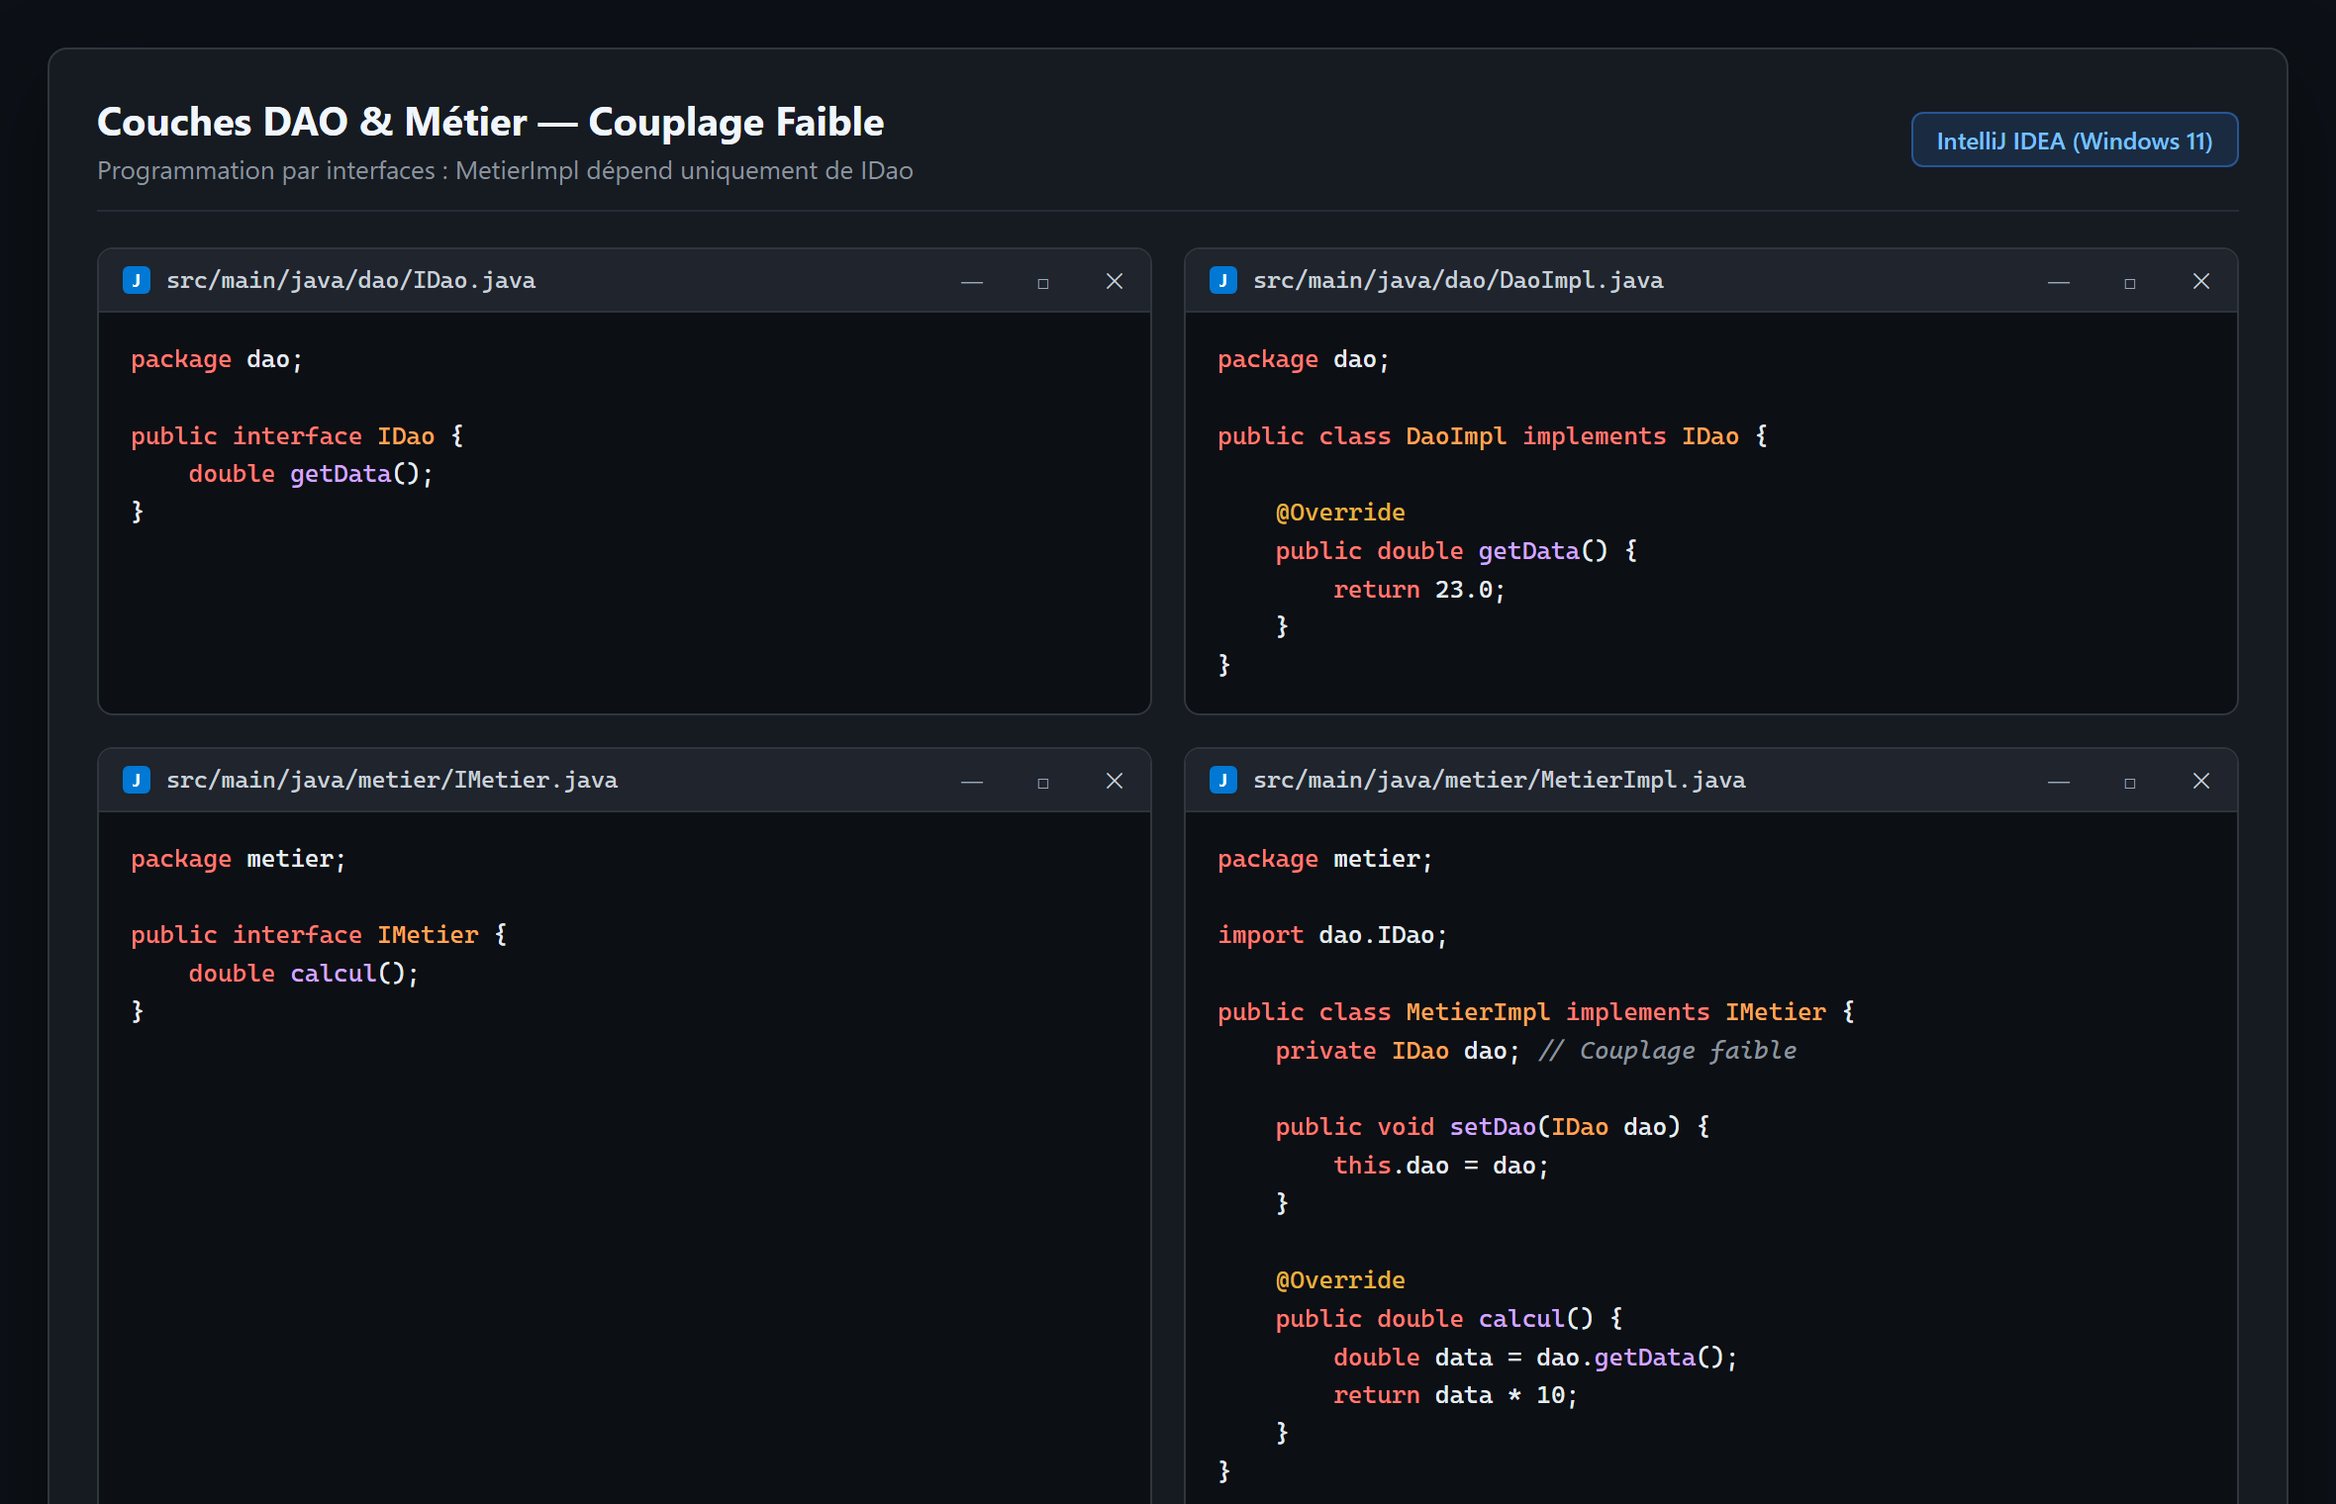
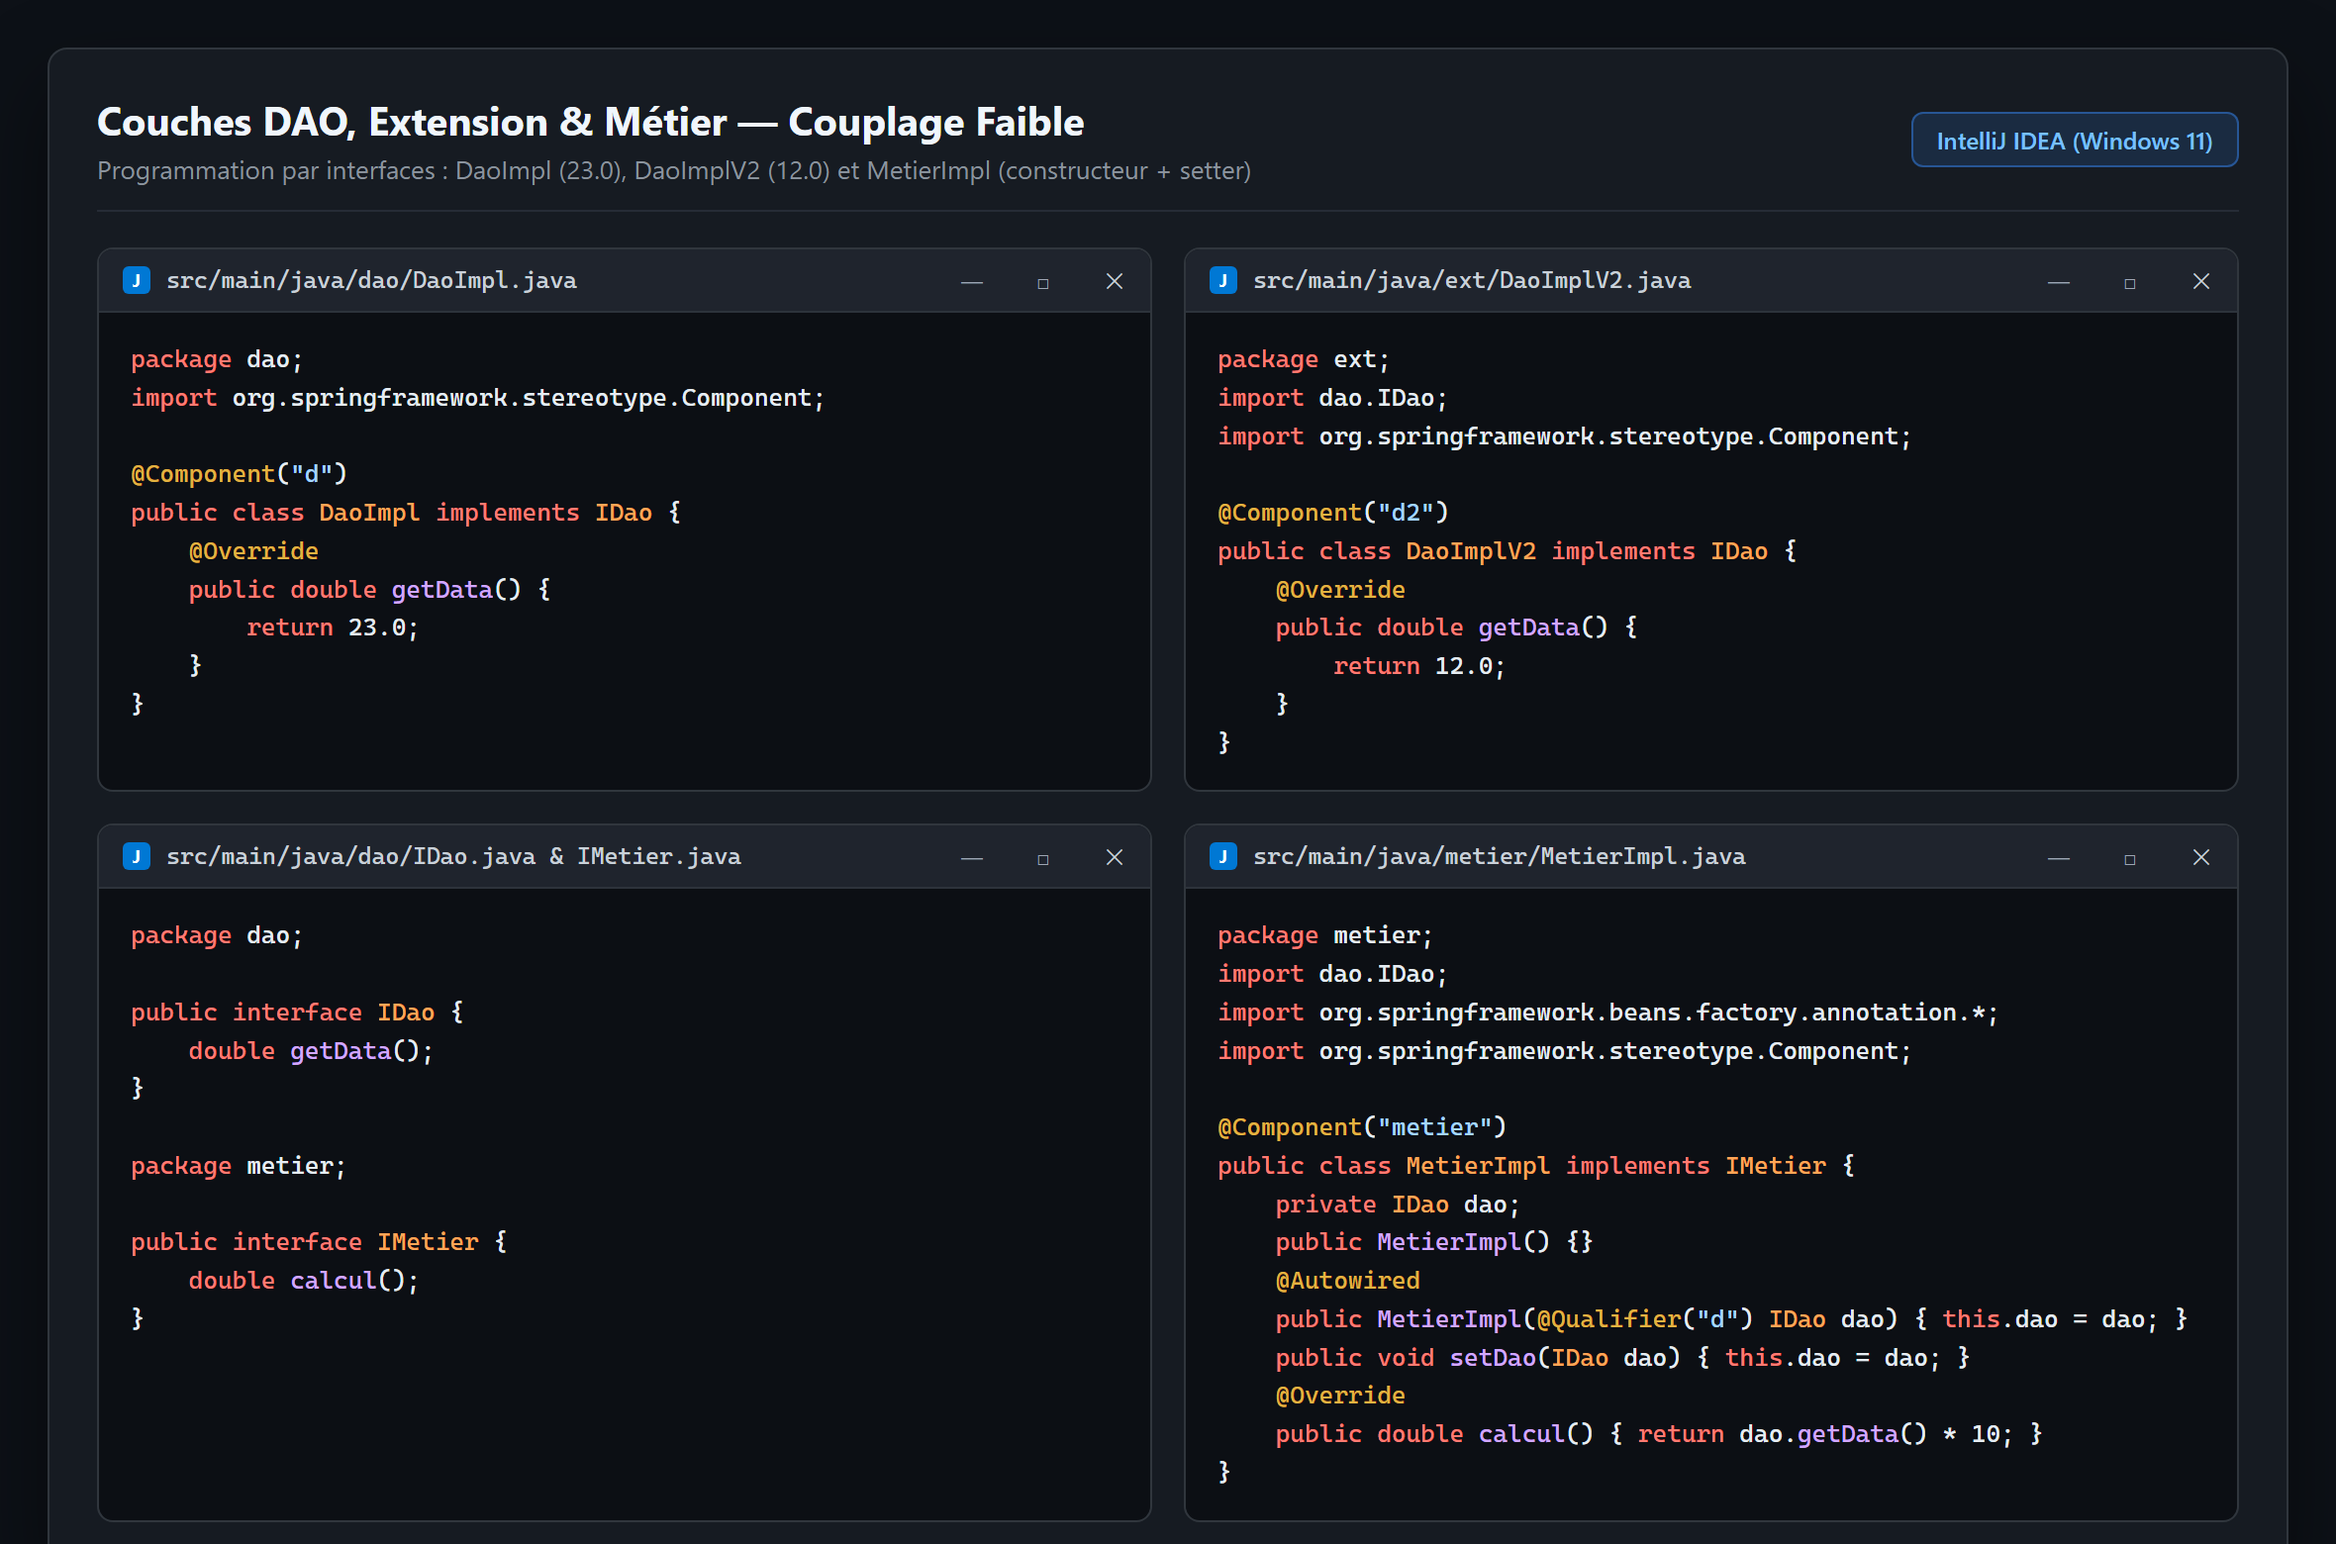
feat: ajout DaoImplV2, injection constructeur et PresSpringAnnotation inspirés de bdcc-ioc

diff --git a/src/main/java/metier/MetierImpl.java b/src/main/java/metier/MetierImpl.java
@@ -1,10 +1,24 @@
 package metier;
 
 import dao.IDao;
+import org.springframework.beans.factory.annotation.Autowired;
+import org.springframework.beans.factory.annotation.Qualifier;
+import org.springframework.stereotype.Component;
 
+@Component("metier")
 public class MetierImpl implements IMetier {
 
     private IDao dao;
+
+    /** Constructeur sans paramètres (requis pour Pres1, Pres2 et Spring XML). */
+    public MetierImpl() {
+    }
+
+    /** Injection par constructeur (utilisée par Spring Annotations). */
+    @Autowired
+    public MetierImpl(@Qualifier("d") IDao dao) {
+        this.dao = dao;
+    }
 
     public void setDao(IDao dao) {
         this.dao = dao;

diff --git a/src/main/java/presentation/PresSpringAnnotation.java b/src/main/java/presentation/PresSpringAnnotation.java
@@ -1,0 +1,21 @@
+package presentation;
+
+import metier.IMetier;
+import org.springframework.context.annotation.AnnotationConfigApplicationContext;
+
+/**
+ * Version 4 : Injection des dépendances avec Spring Annotations (@Component, @Autowired, @Qualifier).
+ */
+public class PresSpringAnnotation {
+
+    public static void main(String[] args) {
+        AnnotationConfigApplicationContext context =
+                new AnnotationConfigApplicationContext("dao", "metier");
+
+        IMetier metier = context.getBean(IMetier.class);
+
+        System.out.println("Résultat du calcul avec Spring Annotations : " + metier.calcul());
+
+        context.close();
+    }
+}

diff --git a/src/main/java/ext/DaoImplV2.java b/src/main/java/ext/DaoImplV2.java
@@ -1,0 +1,16 @@
+package ext;
+
+import dao.IDao;
+import org.springframework.stereotype.Component;
+
+/**
+ * Extension "capteur" de IDao ajoutée sans modifier la couche DAO ni la couche métier.
+ */
+@Component("d2")
+public class DaoImplV2 implements IDao {
+
+    @Override
+    public double getData() {
+        return 12.0;
+    }
+}

diff --git a/src/main/java/dao/DaoImpl.java b/src/main/java/dao/DaoImpl.java
@@ -1,5 +1,8 @@
 package dao;
 
+import org.springframework.stereotype.Component;
+
+@Component("d")
 public class DaoImpl implements IDao {
 
     @Override

diff --git a/README.md b/README.md
@@ -7,7 +7,7 @@
 [![Maven](https://img.shields.io/badge/Build-Maven-C71A36?logo=apachemaven&logoColor=white)](https://maven.apache.org/)
 [![OS](https://img.shields.io/badge/Environnement-Windows%2011-0078D6?logo=windows11&logoColor=white)]()
 
-**Sujet :** Application Java **fermée à la modification et ouverte à l'extension** — Couplage faible & Injection des dépendances (Statique, Dynamique par réflexion, Spring XML).
+**Sujet :** Application Java **fermée à la modification et ouverte à l'extension** — Couplage faible & Injection des dépendances (Statique, Dynamique par réflexion, Spring XML, Spring Annotations).
 
 </div>
 
@@ -19,10 +19,11 @@
 2. [Architecture du projet](#-2-architecture-du-projet)
 3. [Structure des fichiers](#-3-structure-des-fichiers)
 4. [Réalisation étape par étape](#-4-réalisation-étape-par-étape)
-   - [Couches DAO & Métier (`IDao`, `DaoImpl`, `IMetier`, `MetierImpl`)](#couches-dao--métier)
+   - [Couches DAO, Extension (`ext`) & Métier](#couches-dao-extension--métier)
    - [a) Injection par instanciation statique (`Pres1`)](#a-par-instanciation-statique-pres1)
    - [b) Injection par instanciation dynamique (`Pres2`)](#b-par-instanciation-dynamique-pres2)
-   - [c) Injection avec Spring IoC XML (`PresSpring`)](#c-avec-le-framework-spring-xml-presspring)
+   - [c) Injection avec Spring XML (`PresSpring`)](#c-avec-spring-xml-presspring)
+   - [d) Injection avec Spring Annotations (`PresSpringAnnotation`)](#d-avec-spring-annotations-presspringannotation)
 5. [Tableau récapitulatif](#-5-tableau-récapitulatif)
 6. [Prérequis & Exécution](#-6-prérequis--exécution)
 7. [Conclusion](#-7-conclusion)
@@ -31,12 +32,12 @@
 
 ## 🎯 1. Objectif
 
-Montrer comment concevoir une application Java **fermée à la modification** et **ouverte à l'extension**, facilitant la maintenance et l'évolution :
+Montrer comment créer une application Java **fermée à la modification** et **ouverte à l'extension**, facilitant la maintenance :
 
 1. **Le couplage faible** : dépendre des *interfaces* (`IDao`, `IMetier`) et non des implémentations concrètes.
-2. **L'injection des dépendances** : un objet reçoit ses dépendances de l'extérieur (via `setDao(...)`) au lieu de les instancier lui-même avec `new`.
+2. **L'injection des dépendances** : un objet reçoit ses dépendances de l'extérieur (par **constructeur** ou par **setter**) au lieu de les instancier lui-même avec `new`.
 
-Avec l'**Inversion de Contrôle (IoC)**, le développeur se concentre sur la logique **métier**, tandis que le framework (**Spring**) gère la création des objets et le câblage technique.
+Avec l'**Inversion de Contrôle (IoC)**, le développeur écrit le code **métier** ; **Spring** s'occupe de la création et du câblage des objets.
 
 ---
 
@@ -56,45 +57,48 @@ TP-IOC-Spring/
 │   ├── 02-couches-dao-metier.png
 │   ├── 03-pres1-statique.png
 │   ├── 04-pres2-dynamique.png
-│   └── 05-pres3-spring-xml.png
+│   ├── 05-pres3-spring-xml.png
+│   └── 06-pres4-spring-annotations.png
 └── src/main/
     ├── java/
     │   ├── dao/
     │   │   ├── IDao.java                    # Interface d'accès aux données (getData)
-    │   │   └── DaoImpl.java                 # Implémentation retournant 23.0
+    │   │   └── DaoImpl.java                 # Implémentation BDD (23.0) — @Component("d")
+    │   ├── ext/
+    │   │   └── DaoImplV2.java               # Extension capteur (12.0) — @Component("d2")
     │   ├── metier/
     │   │   ├── IMetier.java                 # Interface métier (calcul)
-    │   │   └── MetierImpl.java              # Calcul métier (data * 10) avec setDao(IDao)
+    │   │   └── MetierImpl.java              # Calcul (data * 10), constructeur @Autowired + setDao
     │   ├── presentation/
     │   │   ├── Pres1.java                   # Instanciation statique (new)
     │   │   ├── Pres2.java                   # Instanciation dynamique (réflexion + config.txt)
-    │   │   └── PresSpring.java              # Conteneur IoC Spring (config.xml)
+    │   │   ├── PresSpring.java              # Conteneur IoC Spring XML (config.xml)
+    │   │   └── PresSpringAnnotation.java    # Conteneur IoC Spring Annotations
     │   └── org/example/
     │       └── Main.java                    # Point d'entrée modèle
     └── resources/
-        ├── config.txt                       # Configuration des classes pour Pres2
-        └── config.xml                       # Configuration des beans Spring pour PresSpring
+        ├── config.txt                       # Noms des classes pour Pres2
+        └── config.xml                       # Déclaration des beans Spring pour PresSpring
 ```
 
 ---
 
 ## 🛠 4. Réalisation étape par étape
 
-### Couches DAO & Métier
+### Couches DAO, Extension & Métier
 
-- **`IDao` / `DaoImpl`** : définit le contrat `getData()` et retourne la valeur `23.0`.
-- **`IMetier` / `MetierImpl`** : déclare un attribut privé de type interface `IDao` (non initialisé afin d'éviter le couplage fort), injecté via `setDao(IDao dao)`. La méthode `calcul()` retourne `dao.getData() * 10` soit **`230.0`**.
+- **`IDao` / `DaoImpl`** : retourne `23.0` (`@Component("d")`).
+- **`ext/DaoImplV2`** : seconde implémentation « capteur » retournant `12.0` (`@Component("d2")`), ajoutée sans modifier `dao` ni `metier`.
+- **`IMetier` / `MetierImpl`** : dépend uniquement de `IDao`. Propose un constructeur sans paramètres (pour `Pres1`, `Pres2`, Spring XML) et un constructeur `@Autowired` avec `@Qualifier("d")` (pour Spring Annotations), ainsi que `setDao(IDao dao)`.
 
-![Couches DAO et Métier](screenshots/02-couches-dao-metier.png)
+![Couches DAO, Extension et Métier](screenshots/02-couches-dao-metier.png)
 
 ---
 
 ### a) Par instanciation statique (`Pres1`)
 
-Dans `Pres1.java`, les objets `DaoImpl` et `MetierImpl` sont instanciés directement avec `new`, puis liés via `metier.setDao(dao)`.
-
-- **Couches DAO & Métier** : fermées à la modification et ouvertes à l'extension.
-- **Couche Présentation** : **encore ouverte à la modification** (changer d'implémentation impose de modifier le code Java et recompiler).
+Instanciation directe avec `new DaoImpl()` et `new MetierImpl()`, puis injection via `metier.setDao(dao)`.  
+Pour passer à `DaoImplV2`, il faudrait modifier `Pres1.java` et recompiler.
 
 ![Exécution de Pres1 - Instanciation statique](screenshots/03-pres1-statique.png)
 
@@ -102,29 +106,38 @@ Dans `Pres1.java`, les objets `DaoImpl` et `MetierImpl` sont instanciés directe
 
 ### b) Par instanciation dynamique (`Pres2`)
 
-Dans `Pres2.java`, les noms complets des classes sont lus depuis `src/main/resources/config.txt`, instanciés dynamiquement avec `Class.forName(...).getDeclaredConstructor().newInstance()`, et reliés par réflexion (`getMethod("setDao", ...).invoke(...)`).
-
-- La couche présentation devient **fermée à la modification et ouverte à l'extension** : il suffit de modifier `config.txt` sans toucher au code Java.
+Lecture des classes depuis `src/main/resources/config.txt`, instanciation via `Class.forName(...).getDeclaredConstructor().newInstance()` et injection de `setDao` par réflexion.  
+Pour passer à `ext.DaoImplV2`, il suffit de modifier la première ligne de `config.txt` sans toucher au code Java.
 
 ![Exécution de Pres2 - Instanciation dynamique](screenshots/04-pres2-dynamique.png)
 
 ---
 
-### c) Avec le framework Spring XML (`PresSpring`)
+### c) Avec Spring XML (`PresSpring`)
 
-Dans `PresSpring.java`, le conteneur Spring (`ClassPathXmlApplicationContext("config.xml")`) lit la déclaration des beans (`dao` et `metier`), les instancie et injecte automatiquement la dépendance `dao` via `<property name="dao" ref="dao"/>`.
+Le conteneur `ClassPathXmlApplicationContext("config.xml")` instancie les beans `dao` et `metier` et injecte la dépendance via `<property name="dao" ref="dao"/>`.
 
 ![Exécution de PresSpring - Spring IoC XML](screenshots/05-pres3-spring-xml.png)
 
 ---
 
+### d) Avec Spring Annotations (`PresSpringAnnotation`)
+
+`AnnotationConfigApplicationContext("dao", "metier")` scanne les packages et injecte automatiquement le bean `@Qualifier("d")` dans le constructeur `@Autowired` de `MetierImpl`.  
+Pour basculer vers `DaoImplV2`, il suffit de scanner `"ext"` et d'indiquer `@Qualifier("d2")`.
+
+![Exécution de PresSpringAnnotation - Spring IoC Annotations](screenshots/06-pres4-spring-annotations.png)
+
+---
+
 ## 📊 5. Tableau récapitulatif
 
-| Technique | Qui crée les objets ? | Changer d'implémentation DAO | Couche présentation fermée à la modification ? |
+| Technique | Qui crée les objets ? | Basculer vers `DaoImplV2` | Couche présentation fermée à la modification ? |
 | :--- | :--- | :--- | :--- |
 | **Instanciation statique (`Pres1`)** | Le développeur (`new`) | Modifier le code Java et recompiler | Non |
 | **Instanciation dynamique (`Pres2`)** | Le développeur (réflexion) | Modifier `src/main/resources/config.txt` | Oui |
 | **Spring XML (`PresSpring`)** | Le conteneur Spring | Modifier `src/main/resources/config.xml` | Oui |
+| **Spring Annotations (`PresSpringAnnotation`)** | Le conteneur Spring | Scanner `"ext"` + `@Qualifier("d2")` | Oui |
 
 ---
 
@@ -139,10 +152,10 @@ cd TP-IOC-Spring
 mvn compile
 ```
 
-Exécutez ensuite au choix `presentation.Pres1`, `presentation.Pres2` ou `presentation.PresSpring` depuis IntelliJ IDEA (bouton ▶) ou en ligne de commande.
+Exécutez au choix `presentation.Pres1`, `presentation.Pres2`, `presentation.PresSpring` ou `presentation.PresSpringAnnotation`.
 
 ---
 
 ## 🏁 7. Conclusion
 
-Pour concevoir une application **fermée à la modification et ouverte à l'extension**, il faut combiner le **couplage faible** (dépendre uniquement d'interfaces) et l'**injection des dépendances**. Avec Spring IoC, la création et le câblage des objets sont délégués au conteneur, permettant au développeur de se concentrer sur le code métier.
+Pour concevoir une application **fermée à la modification et ouverte à l'extension**, il faut combiner le **couplage faible** (interfaces) et l'**injection des dépendances**. En pratique, on privilégie les **annotations Spring** (`@Component`, `@Autowired`, `@Qualifier`) et l'injection par **constructeur**.
